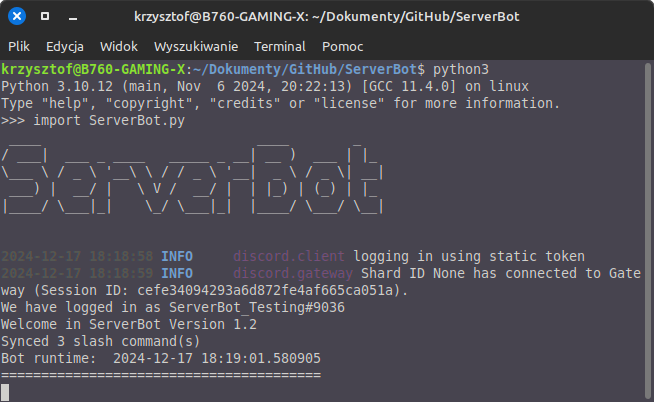
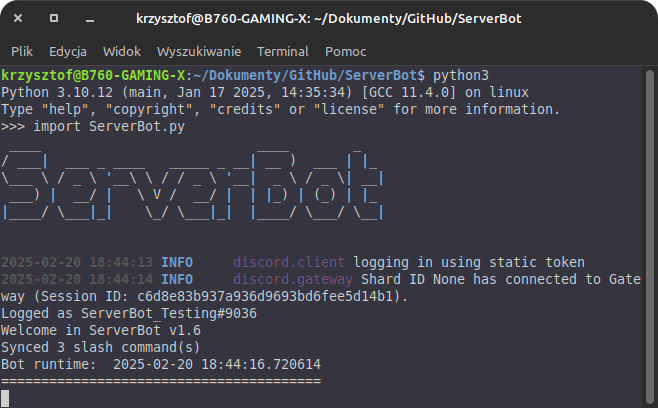
Updated to SB v1.6

diff --git a/ServerBot/manual.html b/ServerBot/manual.html
@@ -5,7 +5,7 @@
     <meta name="viewport" content="width=device-width, initial-scale=1.0">
     <title>ServerBot Manual</title>
     <link rel="icon" type="image/x-icon" href="Files/favicon.ico">
-    <meta name="description" content="ServerBot 1.5.1 User Manual [PL]">
+    <meta name="description" content="ServerBot 1.6 User Manual [PL]">
     <meta name="author" content="Kamile320">
 
     <style>
@@ -74,7 +74,6 @@
             <li><b>Logs.txt</b> - Plik z Dziennikiem zdarzeń bota na serwerze</li>
             <li><b>manual.html</b> - Manual Bota</li>
             <li><b>Media</b> - Katalog z Domyślnymi Muzykami/Dźwiękami</li>
-            <li><b>sctl</b> - Katalog z wpisami usług (po użyciu .service prepare)</li>
             <li><b>.env</b> - Specialny plik do przechowywania Tokenów Bota</li>
             <li><b>.venv</b> - Wirtualne Środowisko Pythona (Po użyciu setup.sh - opcja 4)</li>
             <li>
@@ -128,15 +127,14 @@
         Aby to łatwo umożliwić istnieje komenda .mksysctlstart<br>
         Po wpisaniu komendy trzeba podać dodatkową wartość:<br><br>
         
-        <b>none</b> -> tworzy zwykły plik autorun.sh w katalogu <a href="#dirs">Files</a>. Działa głównie na systemach opartych na Ubuntu <b>22.04</b><br><br>
+        <b>def</b> -> tworzy domyślny plik autorun.sh w katalogu <a href="#dirs">Files</a>. Działa głównie na systemach opartych na Ubuntu <b>22.04</b> (Nie korzysta z utworzonego venv)<br><br>
 
-        <b>inna wartość</b> -> czasem przy instalacji modułów za pomocą pip3 może wyskoczyć błąd <i>externally managed pip</i>.<br>
-        W tym przypadku zamiast <i>none</i> należy wpisać katalog w którym znajduje się Wirtualne Środowisko Pythona (Virtual Environment/Venv)<br>
-        Jeśli jeszcze go nie utworzyłeś - rekomendowane jest utworzenie go w głównym katalogu Bota (ServerBot)<br><br>
-        Przykład: .mksysctl .venv/bin/python <- wykonujesz tą komendę na Discordzie gdy skrypt działa w głównym katalogu Bota<br>
-        .venv - > znajduje się w katalogu ServerBot<br>
+        <b>venv</b> -> czasem przy instalacji modułów za pomocą pip3 może wyskoczyć błąd <i>externally managed pip</i>.<br>
+        W tym przypadku należy utworzyć Wirtualne Środowisko Pythona (Virtual Environment/Venv)<br>
+        Jeśli jeszcze go nie utworzyłeś - rekomendowane jest utworzenie go w głównym katalogu Bota (ServerBot).<br><br>
+        Przykład: .mksysctl venv <- wykonujesz tą komendę na Discordzie gdy skrypt działa w głównym katalogu Bota.<br>
         UWAGA! Bot (a raczej setup.sh) jest przystosowany do nazwy katalogu z wirtualnym środowiskiem o nazwie ".venv".<br>
-        Jeśli wprowadzisz inną wartość (po utworzeniu .venv poprzez setup.sh), bot może się nie uruchomić!<br>
+        Jeśli utworzyłeś ręcznie venv z inną nazwą katalogu, bot może się nie uruchomić!<br>
         Zalecane jest użycie opcji 4 z setup.sh -> Bez problemu wszystko zainstaluje i skonfiguruje jak trzeba.<br>
         Aby autostart zadziałał, należy ustawić pliki bota z uprawnieniami odczytu/zapisu/wykonania na 777 (dla wszystkich). Rekomenduję przenieść pliki Bota do katalogu /ServerBot (żeby nie był w innych katalogach)<br><br>
 
@@ -162,7 +160,11 @@
         TOKEN="twój token"<br>
         OpenAI="twój token"<br>
         admin_usr = ['twoje ID']<br>
-        mod_usr = ['twoje ID']<br><br>
+        mod_usr = ['twoje ID']<br>
+        dscserv_link = 'Link do Serwera Discord'<br>
+        addstable = 'stable_link of Discord Bot'<br>
+        addtesting = 'testing_link of Discord Bot'<br>
+        service_list = 'Lista usług systemctl do monitorowania poprzez Discorda'<br><br>
         <h4>ID użytkownika</h4>
         Niektóre komendy korzystają z funkcji i danych związanych z twoim systemem operacyjnym,<br>
         więc wymagają uprawnień administratora do uruchomienia - chyba nie chcesz żeby ktoś ci usunął system!<br>

diff --git a/ServerBot/manualEN.html b/ServerBot/manualEN.html
@@ -5,7 +5,7 @@
     <meta name="viewport" content="width=device-width, initial-scale=1.0">
     <title>ServerBot Manual</title>
     <link rel="icon" type="image/x-icon" href="Files/favicon.ico">
-    <meta name="description" content="ServerBot 1.5.1 User Manual [EN]">
+    <meta name="description" content="ServerBot 1.6 User Manual [EN]">
     <meta name="author" content="Kamile320">
 
     <style>
@@ -74,7 +74,6 @@
             <li><b>Logs.txt</b> - File with the bot event log on the server</li>
             <li><b>manual.html</b> - Bot Manual</li>
             <li><b>Media</b> - Directory with Default Music/Sounds</li>
-            <li><b>sctl</b> - Directory with service entries (After using .service prepare)</li>
             <li><b>.env</b> - Special file for Bot Tokens</li>
             <li><b>.venv</b> - Python Virtual Environment (After using setup.sh - option 4)</li>
             <li>
@@ -128,15 +127,14 @@
         To easily enable this, there is the .mksysctlstart command.<br>
         After entering the command, you must provide an additional value:<br><br>
         
-        <b>none</b> -> creates a regular autorun.sh file in the <a href="#dirs">Files</a> directory. Works on systems based on Ubuntu <b>22.04</b><br><br>
+        <b>def</b> -> creates default autorun.sh file in the <a href="#dirs">Files</a> directory. Works on systems based on Ubuntu <b>22.04</b> (doesn't use venv)<br><br>
 
-        <b>other value</b> -> sometimes when installing modules using pip3 an <i>externally managed pip</i> error may appear .<br>
-        In this case, instead of <i>none</i>, enter the directory where the Python Virtual Environment/Venv is located.<br>
+        <b>venv</b> -> sometimes when installing modules using pip3 an <i>externally managed pip</i> error may appear .<br>
+        In this case, you should create a Python Virtual Environment/Venv.<br>
         If you have not created it yet, it is recommended to create it in the main Bot directory (ServerBot).<br><br>
-        Example: .mksysctl .venv/bin/python <- executing command on Discord; script of the Bot runs in main directory [ServerBot]<br>
-        .venv -> located in the ServerBot directory<br>
+        Example: .mksysctl venv <- executing command on Discord; script of the Bot runs in main directory.<br>
         NOTE! The bot (or rather setup.sh) is adapted to the name of a directory with a virtual environment called ".venv".<br>
-        If you enter a different value (after creating .venv by using setup.sh), the bot may not start!<br>
+        If you manually created venv with different directory name, the bot may not start!<br>
         It is recommended to use option 4 from setup.sh -> It will easily install and configure everything as needed.<br>
         For the autostart to work, you need to set the Bot files with read/write/execute permissions to 777 (for everyone). I recommend moving the Bot files to the /ServerBot directory (so that it is not in other directories)<br><br>
 
@@ -162,7 +160,11 @@
         TOKEN="your bot token"<br>
         OpenAI="your token (API key)"<br>
         admin_usr = ['your discord user ID']<br>
-        mod_usr = ['your discord user ID']<br><br>
+        mod_usr = ['your discord user ID']<br>
+        dscserv_link = 'Link to your Discord Server'<br>
+        addstable = 'stable_link of Discord Bot'<br>
+        addtesting = 'testing_link of Discord Bot'<br>
+        service_list = 'List of systemctl services to see via Discord'<br><br>
         <h4>User ID</h4>
         Some commands uses Operating System data and functions,<br>
         so it requires administrator privileges to run - you don't want to have removed system by unauthorized user, right?<br>
